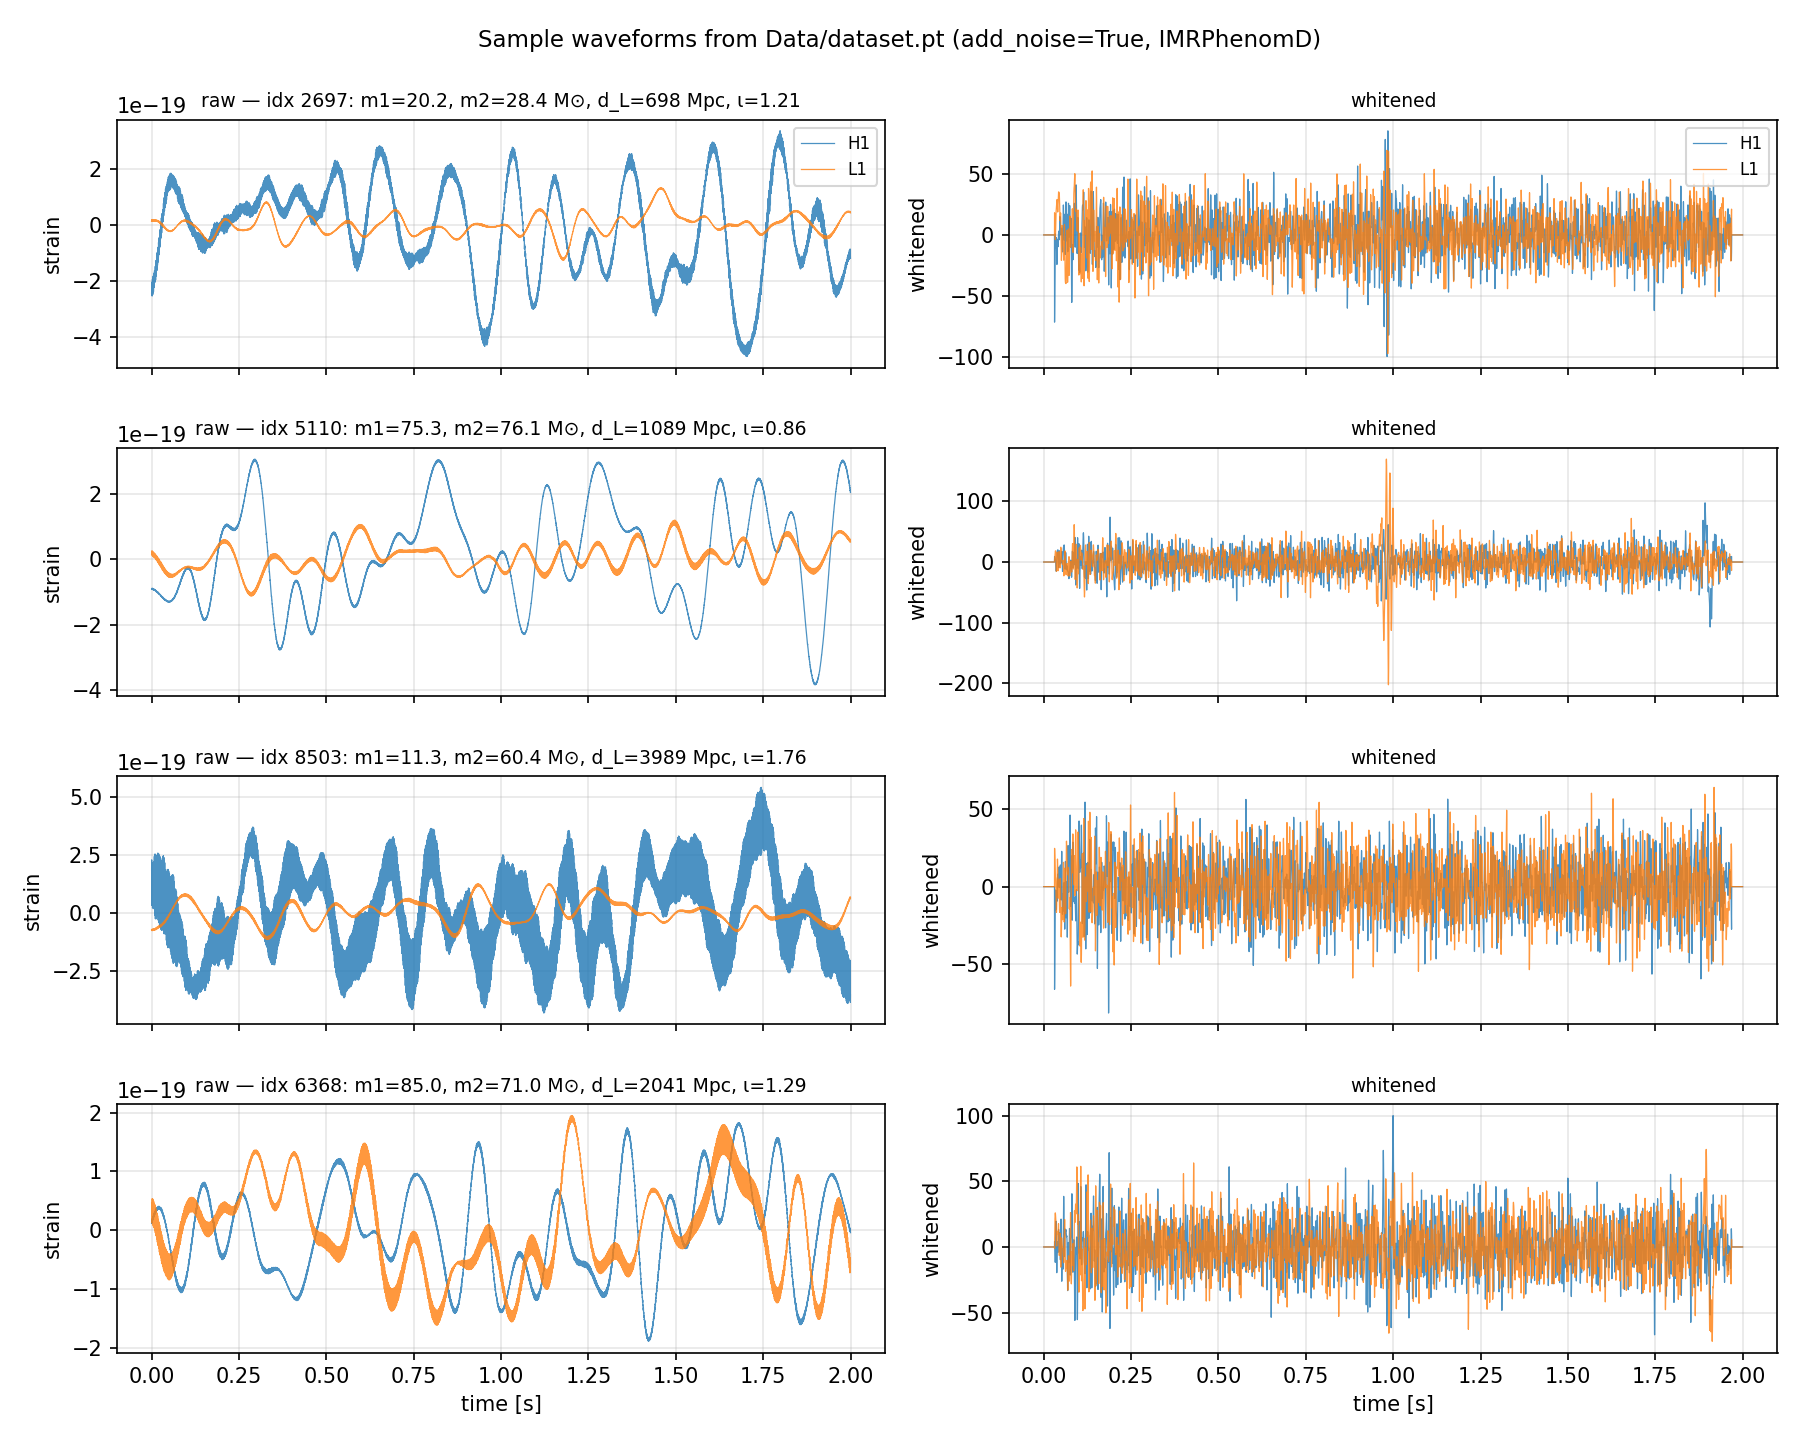
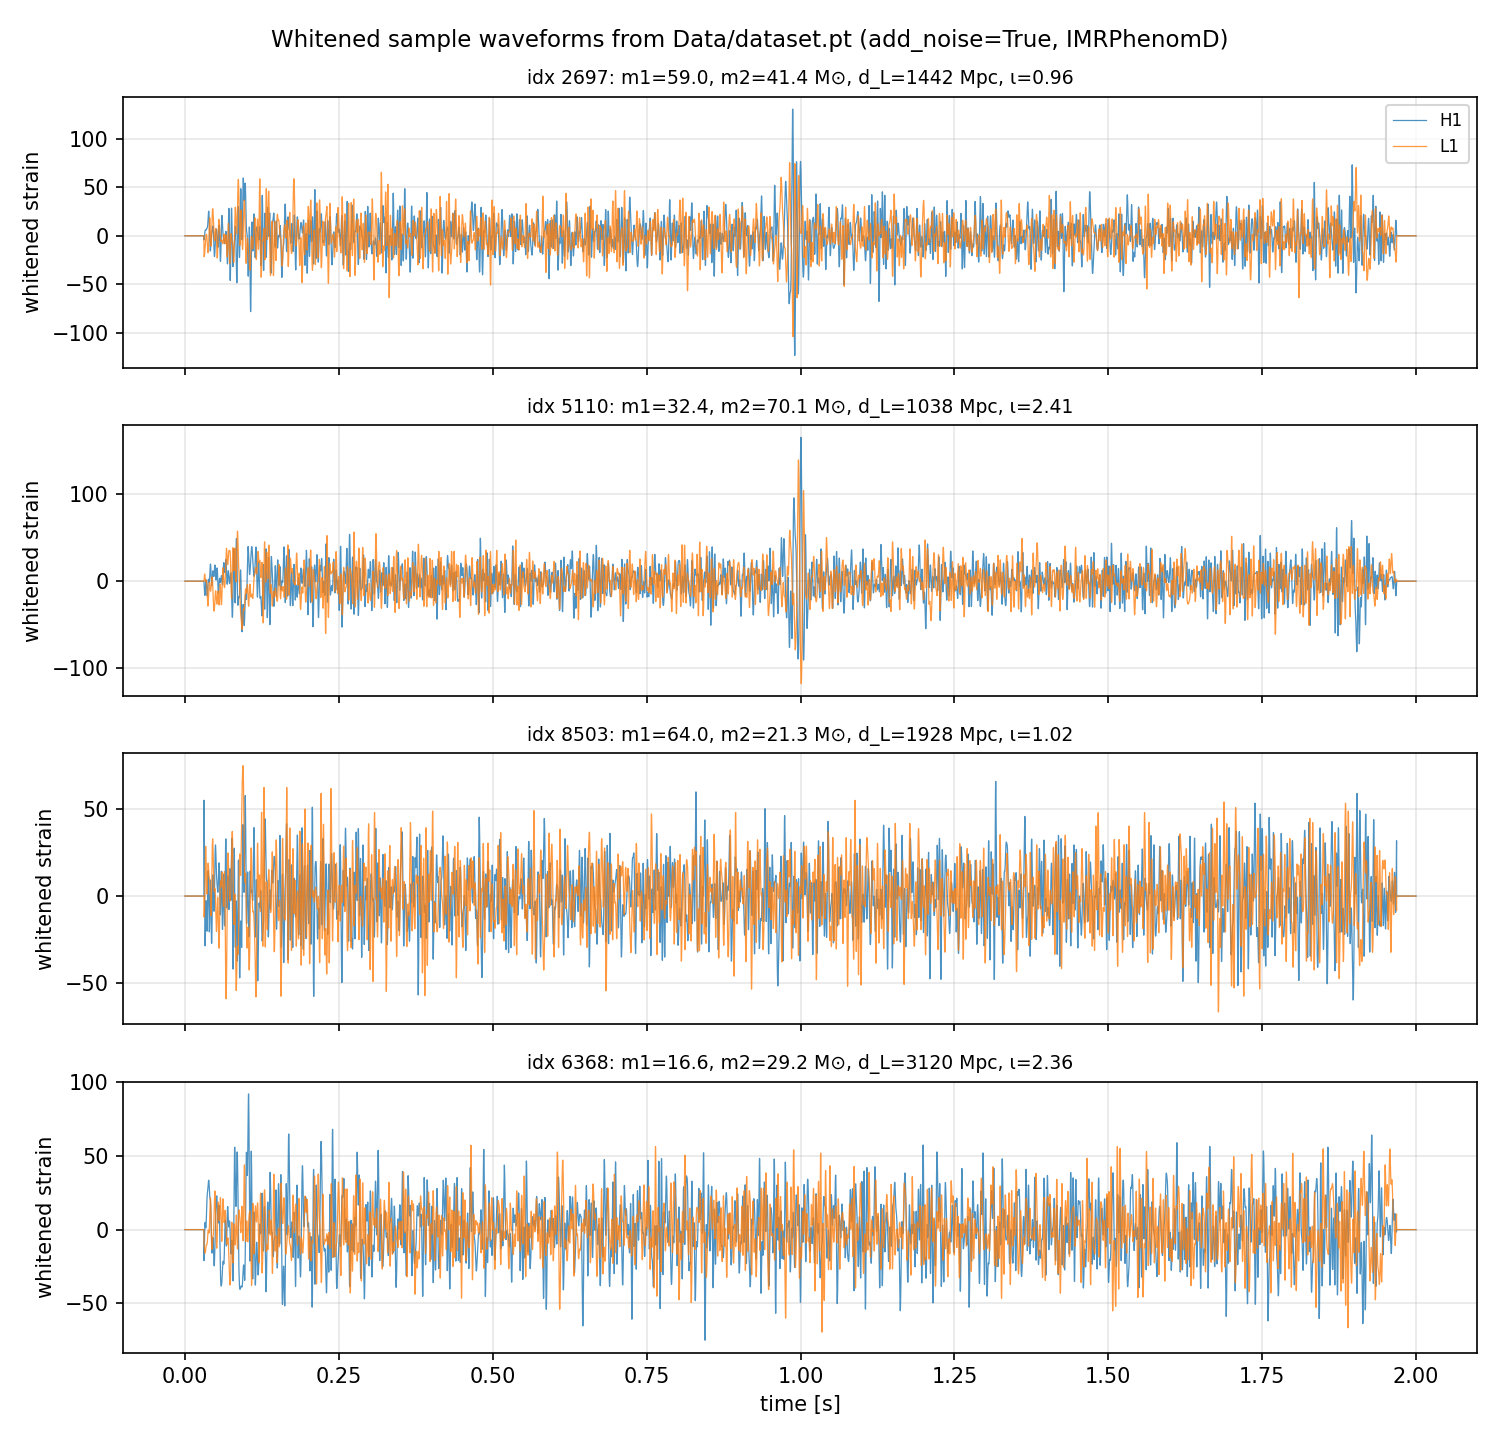
saving only processed waveforms now

diff --git a/HPC/Pipeline/plot_waveforms.py b/HPC/Pipeline/plot_waveforms.py
@@ -17,42 +17,34 @@ SEED = 0
 def main():
     rng = np.random.default_rng(SEED)
     d = torch.load(DATASET_PATH, weights_only=False)
-    X, Xw, y = d['X'].numpy(), d['X_whitened'].numpy(), d['y'].numpy()
+    Xw, y = d['X_whitened'].numpy(), d['y'].numpy()
     meta = d['metadata']
     param_names = meta['parameter_names']
     dt = meta['time_resolution']
-    T = X.shape[-1]
+    T = Xw.shape[-1]
     t = np.arange(T) * dt
 
-    idxs = rng.choice(X.shape[0], size=NUM_EVENTS, replace=False)
+    idxs = rng.choice(Xw.shape[0], size=NUM_EVENTS, replace=False)
 
-    fig, axes = plt.subplots(NUM_EVENTS, 2, figsize=(12, 2.4 * NUM_EVENTS),
-                             sharex=True)
+    fig, axes = plt.subplots(NUM_EVENTS, 1, figsize=(10, 2.4 * NUM_EVENTS),
+                             sharex=True, squeeze=False)
     for row, idx in enumerate(idxs):
         p = dict(zip(param_names, y[idx]))
         label = (f"idx {idx}: m1={p['mass1']:.1f}, m2={p['mass2']:.1f} M⊙, "
                  f"d_L={p['distance']:.0f} Mpc, ι={p['inclination']:.2f}")
 
-        ax_raw, ax_white = axes[row]
-
+        ax = axes[row, 0]
         for det, name, color in [(0, 'H1', 'tab:blue'), (1, 'L1', 'tab:orange')]:
-            ax_raw.plot(t, X[idx, det], color=color, lw=0.6, alpha=0.8, label=name)
-            ax_white.plot(t, Xw[idx, det], color=color, lw=0.6, alpha=0.8, label=name)
-
-        ax_raw.set_ylabel('strain')
-        ax_white.set_ylabel('whitened')
-        ax_raw.set_title(f'raw — {label}', fontsize=9)
-        ax_white.set_title('whitened', fontsize=9)
-        ax_raw.grid(alpha=0.3)
-        ax_white.grid(alpha=0.3)
+            ax.plot(t, Xw[idx, det], color=color, lw=0.6, alpha=0.8, label=name)
+        ax.set_ylabel('whitened strain')
+        ax.set_title(label, fontsize=9)
+        ax.grid(alpha=0.3)
         if row == 0:
-            ax_raw.legend(loc='upper right', fontsize=8)
-            ax_white.legend(loc='upper right', fontsize=8)
+            ax.legend(loc='upper right', fontsize=8)
 
-    for ax in axes[-1]:
-        ax.set_xlabel('time [s]')
+    axes[-1, 0].set_xlabel('time [s]')
 
-    fig.suptitle(f"Sample waveforms from {DATASET_PATH} "
+    fig.suptitle(f"Whitened sample waveforms from {DATASET_PATH} "
                  f"(add_noise={meta['add_noise']}, {meta['approximant']})",
                  fontsize=11)
     fig.tight_layout()
@@ -60,26 +52,20 @@ def main():
     fig.savefig(out, dpi=150)
     print(f"saved {out}")
 
-    # Also a zoomed view on the last ~0.5 s where the merger lives.
-    fig2, axes2 = plt.subplots(NUM_EVENTS, 2, figsize=(12, 2.4 * NUM_EVENTS),
-                               sharex=True)
+    # Zoomed view on the last ~0.5 s where the merger lives.
+    fig2, axes2 = plt.subplots(NUM_EVENTS, 1, figsize=(10, 2.4 * NUM_EVENTS),
+                               sharex=True, squeeze=False)
     mask = t > t[-1] - 0.5
     for row, idx in enumerate(idxs):
-        ax_raw, ax_white = axes2[row]
+        ax = axes2[row, 0]
         for det, name, color in [(0, 'H1', 'tab:blue'), (1, 'L1', 'tab:orange')]:
-            ax_raw.plot(t[mask], X[idx, det][mask], color=color, lw=0.8, label=name)
-            ax_white.plot(t[mask], Xw[idx, det][mask], color=color, lw=0.8, label=name)
-        ax_raw.set_ylabel('strain')
-        ax_white.set_ylabel('whitened')
-        ax_raw.grid(alpha=0.3)
-        ax_white.grid(alpha=0.3)
-        ax_raw.set_title(f'idx {idx} (raw, zoom on merger)', fontsize=9)
-        ax_white.set_title(f'idx {idx} (whitened, zoom on merger)', fontsize=9)
+            ax.plot(t[mask], Xw[idx, det][mask], color=color, lw=0.8, label=name)
+        ax.set_ylabel('whitened strain')
+        ax.grid(alpha=0.3)
+        ax.set_title(f'idx {idx} (zoom on merger)', fontsize=9)
         if row == 0:
-            ax_raw.legend(loc='upper right', fontsize=8)
-            ax_white.legend(loc='upper right', fontsize=8)
-    for ax in axes2[-1]:
-        ax.set_xlabel('time [s]')
+            ax.legend(loc='upper right', fontsize=8)
+    axes2[-1, 0].set_xlabel('time [s]')
     fig2.suptitle('Last 0.5 s (merger / ringdown region)', fontsize=11)
     fig2.tight_layout()
     out2 = PLOT_DIR / 'waveform_samples_zoom.png'

diff --git a/HPC/Pipeline/Data Generation/gw_datagen.py b/HPC/Pipeline/Data Generation/gw_datagen.py
@@ -2369,9 +2369,9 @@ def save_dataloaders(result: Dict, save_path: str) -> None:
     """
     Save the datasets from a pycbc_data_generator result.
 
-    Saves both the raw (signal + coloured noise) waveforms as ``X`` and a
-    whitened + bandpassed version as ``X_whitened``, using the same whitening
-    settings as the real-data pipeline.
+    Saves only the whitened + bandpassed waveforms as ``X_whitened``, using the
+    same whitening settings as the real-data pipeline. The raw signal+noise
+    tensor is generated in memory for whitening but not written to disk.
 
     Parameters
     ----------
@@ -2404,12 +2404,14 @@ def save_dataloaders(result: Dict, save_path: str) -> None:
         'train_indices': train_dataset.indices,
         'val_indices': val_dataset.indices,
         'test_indices': test_dataset.indices,
-        'X': X,
         'X_whitened': X_whitened,
         'y': y,
         'metadata': result['metadata']
     }
 
+    parent = os.path.dirname(save_path)
+    if parent:
+        os.makedirs(parent, exist_ok=True)
     torch.save(save_data, save_path)
     print(f"  Saved successfully!")
 
@@ -2441,7 +2443,7 @@ def load_dataloaders(load_path: str, batch_size: int = None, shuffle_train: bool
 
     save_data = torch.load(load_path, weights_only=False)
 
-    X = save_data['X']
+    X = save_data['X_whitened']
     y = save_data['y']
     train_indices = save_data['train_indices']
     val_indices = save_data['val_indices']

diff --git a/HPC/Pipeline/Data Generation/generate_dataset.py b/HPC/Pipeline/Data Generation/generate_dataset.py
@@ -29,7 +29,7 @@ from gw_datagen import (
 MODE = 'gr'
 
 NUM_SAMPLES  = 10000
-OUTPUT_PATH  = 'dataset.pt'
+OUTPUT_PATH  = '../Data/dataset.pt'
 ADD_NOISE    = True
 NUM_WORKERS  = 4
 
